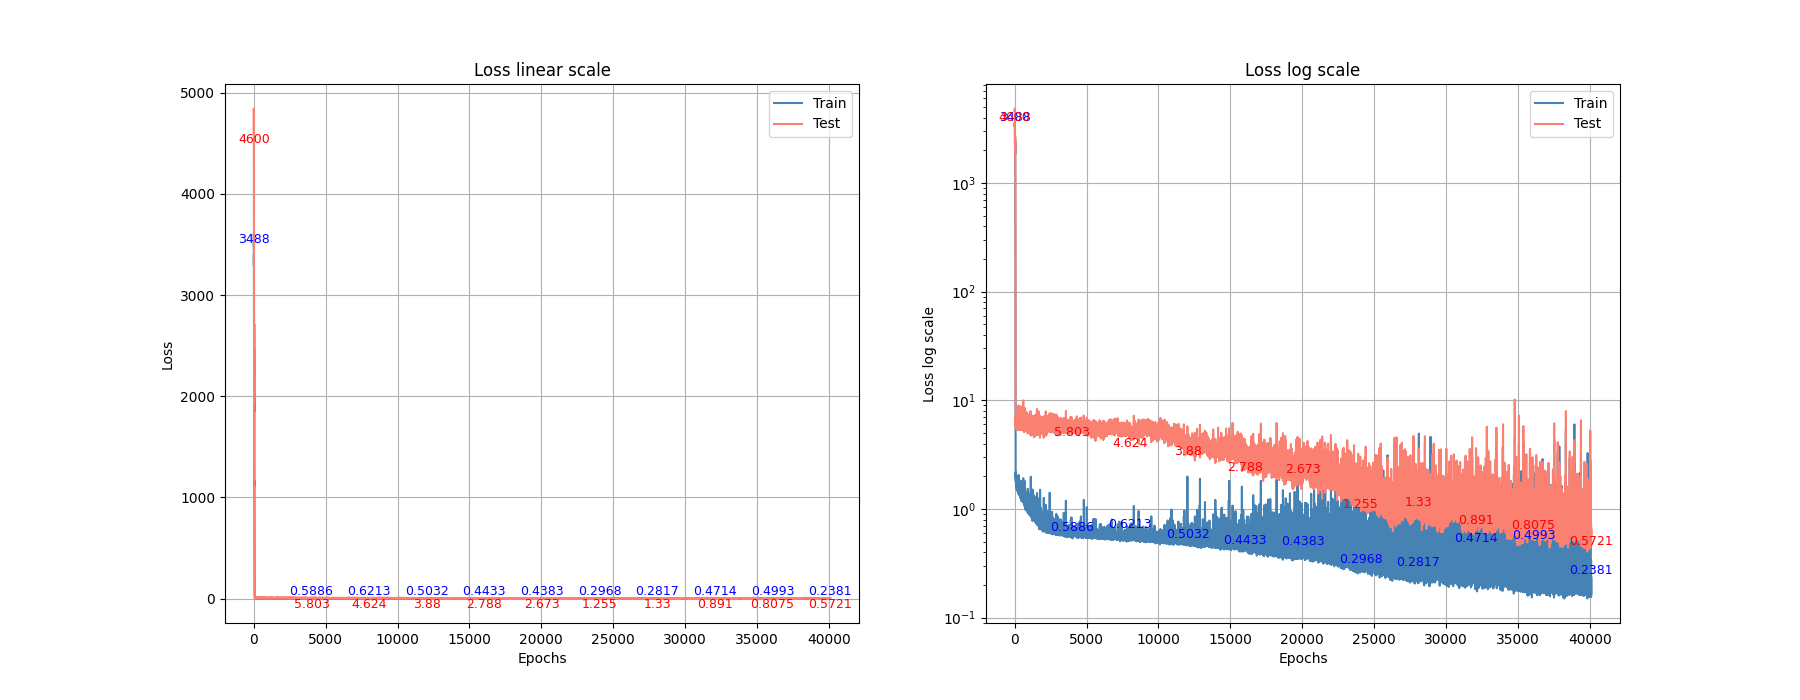
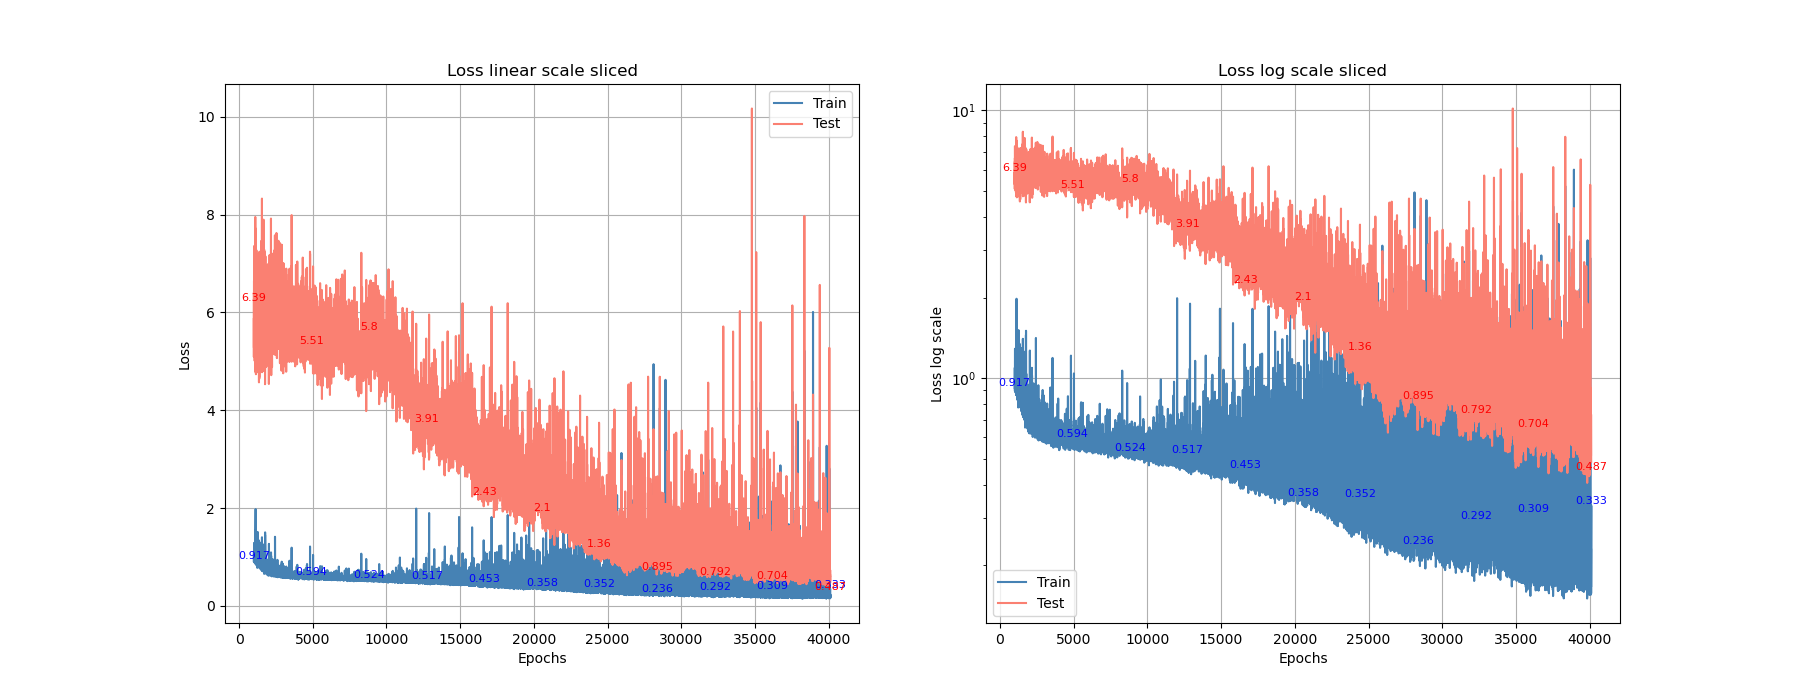
>

diff --git a/PlotFromText.py b/PlotFromText.py
@@ -70,9 +70,10 @@ def process_epoch_stats(file_path, epochs, training_losses, val_losses, training
 def plot_parameter(x, y1, y2, title, plots_path=None, x_label="Epochs", save=False):
     sliced = ""
     # if len(y1) > 3 and (y1[0] > y1[3] + 2000 or y2[0] > y2[3] + 2000):
-    y1 = y1[30:]
-    y2 = y2[30:]
-    x = x[30:]
+    start = 1000
+    y1 = y1[start:]
+    y2 = y2[start:]
+    x = x[start:]
     sliced = " sliced"
     fig, axs = plt.subplots(1, 2, figsize=(18, 7))  # 1 row, 2 columns
     
@@ -101,7 +102,7 @@ def plot_parameter(x, y1, y2, title, plots_path=None, x_label="Epochs", save=Fal
 
 def plot_by_output(plots_path):
     file_path = os.path.join(plots_path, "output.log")
-    save = False
+    save = True
     epochs, training_losses, val_losses, training_maes, val_maes, alg_dists, val_alg_dists, re1_dists, val_re1_dists, sed_dists, val_sed_dists, alg_sqr_dists, val_alg_sqr_dists = [], [], [], [], [], [], [], [], [], [], [], [], []  
 
     epochs, training_losses, val_losses, training_maes, val_maes, alg_dists, val_alg_dists, re1_dists, val_re1_dists, sed_dists, val_sed_dists, alg_sqr_dists, val_alg_sqr_dists = \

diff --git a/params.py b/params.py
@@ -9,10 +9,10 @@ device, RESNET_MODEL_NAME, CLIP_MODEL_NAME = torch.device(f"cuda" if torch.cuda.
 USE_REALESTATE = False
 STEREO = True
 PRETEXT_TRAIN = False
-SCENEFLOW = False
-MODEL = RESNET_MODEL_NAME 
+SCENEFLOW = True
+MODEL = CLIP_MODEL_NAME 
 FROZEN_LAYERS = [0] if MODEL==RESNET_MODEL_NAME or USE_REALESTATE or SCENEFLOW else [0,4,8]
-COMPUTER = 0 # 0 = 250 1 = 146
+COMPUTER = 1 # 0 = /mnt/sda2, 1 = .
 
 ### Dataset ###  
 RIGHTCAMVAL = False
@@ -27,8 +27,8 @@ BATCH_SIZE = 8
 train_seqeunces_stereo = [0,2,3,5] #  10840 images 
 val_sequences_stereo =  [6,7,8]    #  3682 images
 test_sequences_stereo = [9]        #  1064 images
-SEQ_RATIOS = [0.025]     # 3251, 2166, 1082, 540, 405, 269, 161                                                    
-PART = ["tail"] 
+SEQ_RATIOS = [1]     # 3251, 2166, 1082, 540, 405, 269, 161                                                    
+PART = ["head"] 
 
 ### MONKAA ###
 train_seqeunces_monkaa =  ["treeflight_augmented0_x2", "treeflight_augmented1_x2", "lonetree_winter_x2", "a_rain_of_stones_x2", "eating_naked_camera2_x2",  "family_x2", "lonetree_difftex_x2"]  # 1137

diff --git a/delete.py b/delete.py
@@ -1,0 +1,20 @@
+import os
+
+# Specify the path to the main folder containing all subfolders
+main_folder_path = "plots/Stereo/Winners/SED_0.5__L2_1__huber_1__lr_0.0001__conv__CLIP__use_reconstruction_True"
+
+# Iterate over all folders inside the main folder
+for subfolder_name in os.listdir(main_folder_path):
+    subfolder_path = os.path.join(main_folder_path, subfolder_name)
+    
+    # Ensure we are only processing directories
+    if os.path.isdir(subfolder_path):
+        # Construct the full path to 'model.pth' inside the current subfolder
+        model_path = os.path.join(subfolder_path, 'model.pth')
+        
+        # Check if the file exists and delete it
+        if os.path.exists(model_path):
+            os.remove(model_path)
+            print(f"Deleted: {model_path}")
+        else:
+            print(f"No model.pth file found in: {subfolder_path}")

diff --git a/utils.py b/utils.py
@@ -75,9 +75,10 @@ class ConvNet(nn.Module):
 
 def plot(x, y1, y2, title, plots_path, x_label="Epochs", show=False, save=True):
     # if len(y1) > 3 and (y1[0] > y1[3] + 2000 or y2[0] > y2[3] + 2000):
-    y1 = y1[5:]
-    y2 = y2[5:]
-    x = list(x[5:])
+    start = 100
+    y1 = y1[start:]
+    y2 = y2[start:]
+    x = list(x[start:])
     fig, axs = plt.subplots(1, 2, figsize=(18, 7))  # 1 row, 2 columns
     
     for ax, y_scale in zip(axs, ['linear', 'log']):
